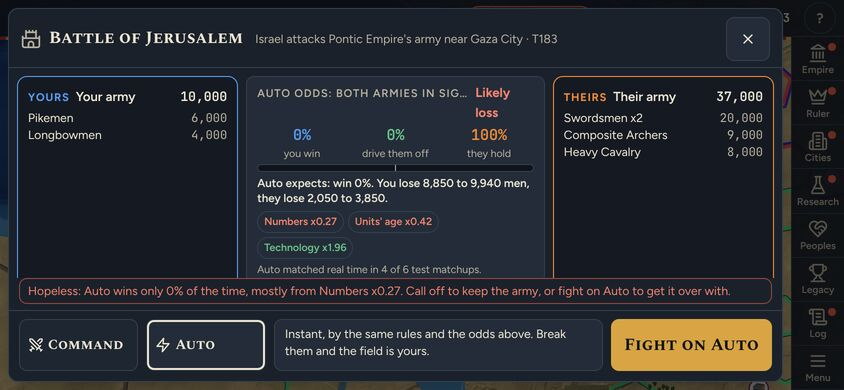
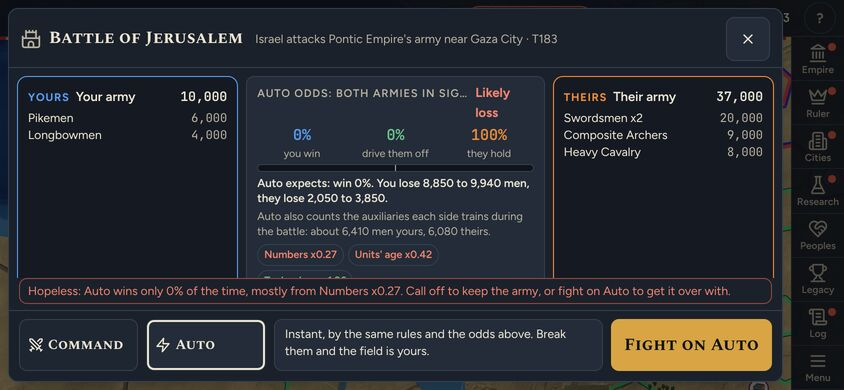
Lane battle-odds: report with evidence, final shots
Claude-Session: https://claude.ai/code/session_01S3hKeJH1jTbRuQwHYLS21e

Changed region(s): [[0.3081, 0.5231, 0.6161, 0.7077]]

diff --git a/plans/lanes/battle-odds-REPORT.md b/plans/lanes/battle-odds-REPORT.md
@@ -61,6 +61,17 @@ The other losses checked were honest:
   - Train and walls are already on that tab.
 - **Sacks:** a sacked city was already spared a fixed 20 turns. That spare is now 12.5 reference turns through `speedTurns`: 20 to 21 at Normal up to kingdoms, 25 later, longer on Marathon, shorter on Fast. Hazor's sacks in the kingdoms save came about 27 turns apart, after a "raiders N tiles away" warning each time. The town had no garrison (220 militia against 2,000).
 
+## Lead's later items (playtests 40650973042 and 40651416284)
+- **Auxiliaries on the card** (40651416284 step 237): the odds simulation and the queued landing, raid and field views now average the auxiliaries Auto trains from the battle economy. Both cards show them as a line ("Auto also counts the auxiliaries each side trains during the battle: about 4,360 men yours, ...") and as an "Auxiliaries" factor. The Tirzah landing itself (14,900 musketeers against 10,000 pikemen, held 0%) was also the stone-age bug above: the defenders' side age was read as stone.
+- **Defence card buttons hidden by the Idle chip and the Defend chip** (step 76, and 40650973042 step 129):
+  - the choice row now sits under the odds
+  - the card is z-71, above the End Turn dock (z-70 while an overlay is open)
+- **Raid report contradiction** (step 152): "none of yours lost" next to "2,200 lost". It counted regiments, and militia are not regiments. It now reads "none of your regiments lost" (Hebrew already said regiments).
+- **Hazor every 24 turns, no counter** (steps 152, 296): the spare between sacks is unchanged at Normal (20 to 21 turns up to kingdoms, 25 later). There is now a counter: the raid warning comes 3 tiles out, and Defend opens the Defense tab with Pay them (tribute is a truce, and the raid turns back at the target), Send an army, Train and Walls. Not done, for the lead: the town militia does not scale with the age, so 2,000 militia against 15,760 modern raiders is a balance question for the independents' lane (`battleInputs.cityMilitia`, `RAID_ERA_FACTOR`).
+- **Not done, for the lead:**
+  - "March to Zafar" walks 10k into a 228k to 342k garrison (step 286). On arrival the attack card now shows the hopeless line and pre-selects Auto, but the March order itself does not warn, and the AI garrison size needs its own look (AI recruitment, aiLogic.js).
+  - The forced peace and the unordered amphibious assault on Sinope (step 197) belong to diplomacy, peace.js and the player's march code. I did not investigate them.
+
 ## Evidence
 - **Shots** (`node scripts/ui/battle-odds-shots.mjs <dir>`, dev server on 5197): 844x390 and 1600x900, en and he, no page errors. Engage card: "Numbers x0.27, Units' age x0.42, Technology x1.96", hopeless line, Auto chosen. Defence card: the choice row is visible. Defense tab with Coming and Engage. Hebrew reads right to left.
 - **balance-sim compare** (`compare.sh origin/claude/integration 150 11-18`, PLAYER=akkad), first pass with a 12-turn spare:
@@ -70,9 +81,23 @@ The other losses checked were honest:
   - wars, cities and the player's economy unchanged within noise
 
   The sack rise came from the spare dropping from 20 to 19 turns early. It is now 12.5; the second pass is below.
-- SECOND_PASS
-- PARITY
-- TESTS
+- **Second compare** (after the merge of integration, spare 12.5): nothing significant over 8 seeds:
+  - sacks 17.4 to 18.1
+  - raidsHit 67.6 to 69.0
+  - captures 5.6 to 5.5
+  - wars 5.1 to 5.0
+  - citiesChangedHands 9.5 to 9.5
+- **battle-lab parityEco** (N=16, TYPES field, assault, town, raid, sack, landing; ages bronze:bronze and classical:kingdoms): 34 of 36 rows are inside the guardrail. Two are OUT: raid bronze, cavalry+cavalry+infantry 0.48x and cavalry+cavalry 0.46x (tactical raids cost the raiders less than Auto says). This branch touches neither `autoBattle.js` nor `src/battle/sim`, and parityEco builds its battles without the views, so before equals after by construction. The two raid rows are base state for the battle lanes.
+- **Full `npx vitest run`** after merging origin/claude/integration: 499 files, 4,699 passed, 17 skipped, 0 failed. Lint is clean.
+- New tests:
+  - nationState "viewAs"
+  - aiLanding "the landing fights the player at the player's own age"
+  - defenseSheetModel: reasons read as yours, the worst factor in the warning, the auxiliaries line, "Holds this turn" with "fall in about 4 turns"
+  - preBattleModel: the hopeless attack
+  - cityDefenseModel: Engage, and Coming for this city
+  - turnReportModel: Defend on a march warning
+  - marchWarning.test.js
+  - battleOdds.range: the auxiliaries factor
 
 ## Not done, for the lead
 - The economy view in `economy.js:109` (AI income through a view with the player's `techAgeId`) is the same bug class in someone else's lane.
